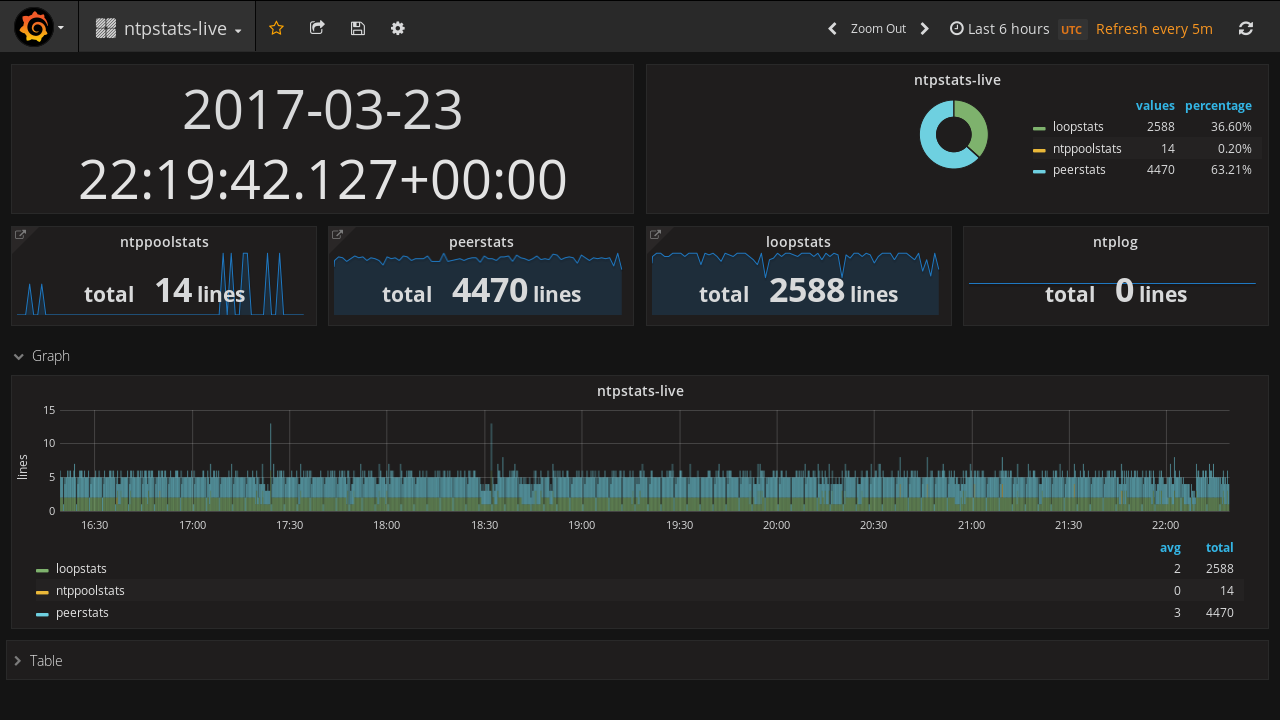
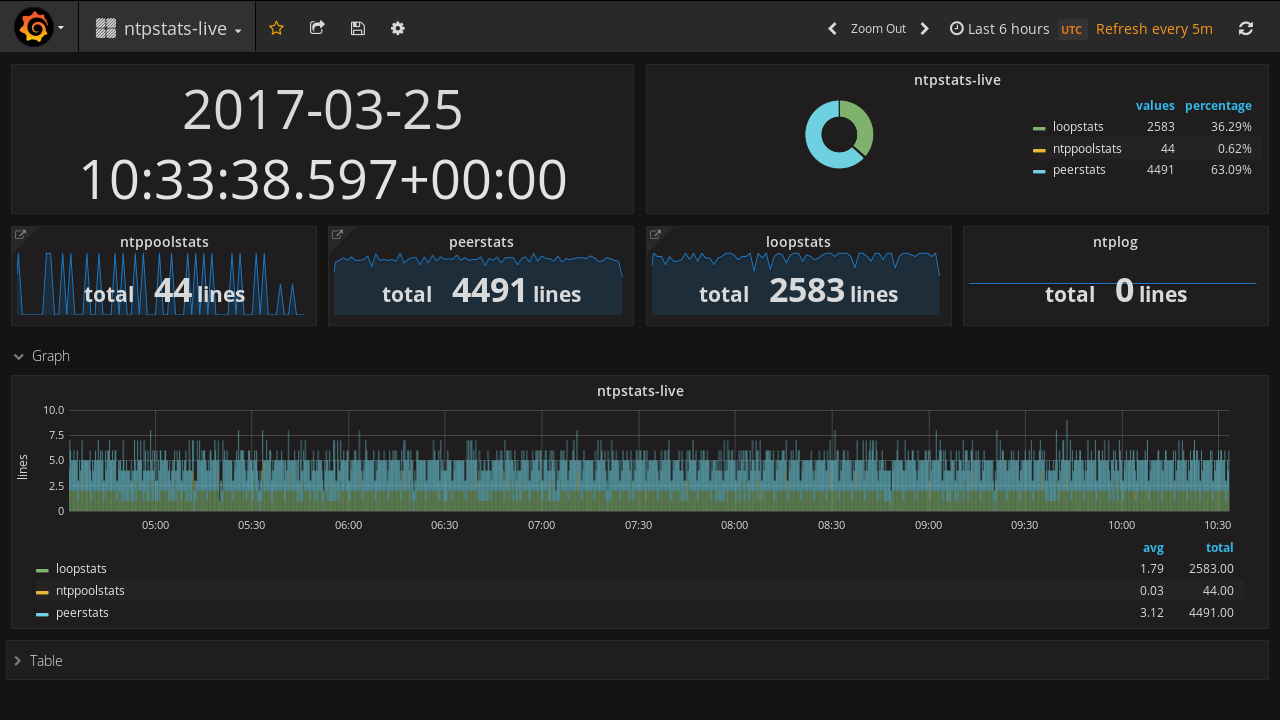
gh-pages: update all screenshots

diff --git a/index.html b/index.html
@@ -49,40 +49,40 @@ body {
               <!-- wrapper for slides -->
               <div class="carousel-inner">
                 <div class="item active">
-                  <img src="http://placehold.it/1280x720" alt="...">
+                  <img src="doc/images/screenshot_gitbook_ntpstats-ng_prev.png" alt="GitBook ntpstats-ng">
                   <div class="carousel-caption">
-                    <h3>ntpstats-ng GitBook</h3>
+                    <h3>GitBook ntpstats-ng</h3>
                   </div>
                 </div>
                 <div class="item">
                   <a href="#feature_1">
-                    <img src="doc/images/dashboard_ntpstats-ng.png" alt="...">
+                    <img src="doc/images/dashboard_ntpstats-ng_prev.png" alt="Grafana Dashboard ntpstats-ng">
                     <div class="carousel-caption">
-                      <h3>Dashboards</h3>
+                      <h3>Grafana Dashboards</h3>
                     </div>
                   </a>
                 </div>
                 <div class="item">
                   <a href="#feature_2">
-                    <img src="http://placehold.it/1280x720" alt="...">
+                    <img src="doc/images/dashboard_ntpstats-ng_statistics_prev.png" alt="Data Statistics">
                     <div class="carousel-caption">
-                      <h3>Feature 2</h3>
+                      <h3>Data Statistics</h3>
                     </div>
                   </a>
                 </div>
                 <div class="item">
                   <a href="#feature_3">
-                    <img src="http://placehold.it/1280x720" alt="...">
+                    <img src="doc/images/dashboard_ntpstats-live_prev.png" alt="Live Data">
                     <div class="carousel-caption">
-                      <h3>Feature 3</h3>
+                      <h3>Live Data</h3>
                     </div>
                   </a>
                 </div>
                 <div class="item">
                   <a href="#feature_4">
-                    <img src="http://placehold.it/1280x720" alt="...">
+                    <img src="doc/images/grafana_datasources_prev.png" alt="Data Source Elasticsearch">
                     <div class="carousel-caption">
-                      <h3>Feature 4</h3>
+                      <h3>Data Source Elasticsearch</h3>
                     </div>
                   </a>
                 </div>
@@ -106,25 +106,25 @@ body {
       <div class="row">
         <div class="col-md-3">
           <h2>ntppoolstats</h2>
-          <p><img src="http://placehold.it/253x158" alt="placeholder" class="img-thumbnail"></p>
+          <p><img src="doc/images/dashboard_ntpstats-live_ntppoolstats_prev.png" alt="ntpstats-live ntppoolstats" class="img-thumbnail"></p>
           <p>Short description...</p>
           <p><a href="#ntppoolstats" class="btn btn-default" role="button">Type ntppoolstats &raquo;</a></p>
         </div>
         <div class="col-md-3">
           <h2>peerstats</h2>
-          <p><img src="http://placehold.it/253x158" alt="placeholder" class="img-thumbnail"></p>
+          <p><img src="doc/images/dashboard_ntpstats-live_peerstats_prev.png" alt="ntpstats-live peerstats" class="img-thumbnail"></p>
           <p>Short description...</p>
           <p><a href="#peerstats" class="btn btn-default" role="button">Type peerstats &raquo;</a></p>
         </div>
         <div class="col-md-3">
           <h2>loopstats</h2>
-          <p><img src="http://placehold.it/253x158" alt="placeholder" class="img-thumbnail"></p>
+          <p><img src="doc/images/dashboard_ntpstats-live_loopstats_prev.png" alt="ntpstats-live loopstats" class="img-thumbnail"></p>
           <p>Short description...</p>
           <p><a href="#loopstats" class="btn btn-default" role="button">Type loopstats &raquo;</a></p>
         </div>
         <div class="col-md-3">
           <h2>ntplog</h2>
-          <p><img src="http://placehold.it/253x158" alt="placeholder" class="img-thumbnail"></p>
+          <p><img src="http://placehold.it/640x360" alt="placeholder" class="img-thumbnail"></p>
           <p>Short description...</p>
           <p><a href="#ntplog" class="btn btn-default" role="button">Type ntplog &raquo;</a></p>
           <p class="text-right"><a class="back-to-top glyphicon glyphicon-arrow-up" href="#top" title="Top"></a></p>
@@ -166,7 +166,11 @@ body {
       <div class="row">
         <div class="col-md-12" id="ntppoolstats">
           <h3>ntppoolstats</h3>
-          <p><img src="doc/images/dashboard_ntpstats-live_ntppoolstats.png" alt="ntpstats-live ntppoolstats" class="img-responsive"></p>
+          <p>
+            <a href="doc/images/dashboard_ntpstats-live_ntppoolstats.png">
+              <img src="doc/images/dashboard_ntpstats-live_ntppoolstats_prev.png" alt="ntpstats-live ntppoolstats" class="img-thumbnail">
+            </a>
+          </p>
           <p class="lead">Dashboard ntpstats-live ntppoolstats</p>
           <p>Lorem ipsum dolor sit amet, consetetur sadipscing elitr, sed diam nonumy eirmod tempor invidunt ut labore et dolore magna aliquyam erat, sed diam voluptua. At vero eos et accusam et justo duo dolores et ea rebum. Stet clita kasd gubergren, no sea takimata sanctus est Lorem ipsum dolor sit amet.</p>
           <p class="text-right"><a class="back-to-top glyphicon glyphicon-arrow-up" href="#top" title="Top"></a></p>
@@ -176,7 +180,9 @@ body {
       <div class="row">
         <div class="col-md-12" id="peerstats">
           <h3>peerstats</h3>
-          <p><img src="doc/images/dashboard_ntpstats-live_peerstats.png" alt="ntpstats-live peerstats" class="img-responsive"></p>
+          <p>
+              <img src="doc/images/dashboard_ntpstats-live_peerstats_prev.png" alt="ntpstats-live peerstats" class="img-thumbnail">
+          </p>
           <p class="lead">Dashboard ntpstats-live peerstats</p>
           <p>Lorem ipsum dolor sit amet, consetetur sadipscing elitr, sed diam nonumy eirmod tempor invidunt ut labore et dolore magna aliquyam erat, sed diam voluptua. At vero eos et accusam et justo duo dolores et ea rebum. Stet clita kasd gubergren, no sea takimata sanctus est Lorem ipsum dolor sit amet.</p>
           <p class="text-right"><a class="back-to-top glyphicon glyphicon-arrow-up" href="#top" title="Top"></a></p>
@@ -186,7 +192,9 @@ body {
       <div class="row">
         <div class="col-md-12" id="loopstats">
           <h3>loopstats</h3>
-          <p><img src="doc/images/dashboard_ntpstats-live_loopstats.png" alt="ntpstats-live loopstats" class="img-responsive"></p>
+          <p>
+              <img src="doc/images/dashboard_ntpstats-live_loopstats_prev.png" alt="ntpstats-live loopstats" class="img-thumbnail">
+          </p>
           <p class="lead">Dashboard ntpstats-live loopstats</p>
           <p>Lorem ipsum dolor sit amet, consetetur sadipscing elitr, sed diam nonumy eirmod tempor invidunt ut labore et dolore magna aliquyam erat, sed diam voluptua. At vero eos et accusam et justo duo dolores et ea rebum. Stet clita kasd gubergren, no sea takimata sanctus est Lorem ipsum dolor sit amet.</p>
           <p class="text-right"><a class="back-to-top glyphicon glyphicon-arrow-up" href="#top" title="Top"></a></p>
@@ -196,7 +204,9 @@ body {
       <div class="row">
         <div class="col-md-12" id="ntplog">
           <h3>ntplog</h3>
-          <p><img src="http://placehold.it/1280x720" alt="ntpstats-live ntplog" class="img-responsive"></p>
+          <p>
+              <img src="http://placehold.it/640x360" alt="ntpstats-live ntplog" class="img-thumbnail">
+          </p>
           <p class="lead">Dashboard ntpstats-live ntplog</p>
           <p>Lorem ipsum dolor sit amet, consetetur sadipscing elitr, sed diam nonumy eirmod tempor invidunt ut labore et dolore magna aliquyam erat, sed diam voluptua. At vero eos et accusam et justo duo dolores et ea rebum. Stet clita kasd gubergren, no sea takimata sanctus est Lorem ipsum dolor sit amet.</p>
           <p class="text-right"><a class="back-to-top glyphicon glyphicon-arrow-up" href="#top" title="Top"></a></p>
@@ -217,7 +227,7 @@ body {
               <a href="#feature_2" class="list-group-item">Statistics</a>
               <a href="#feature_3" class="list-group-item">Live</a>
             </div>
-            <a href="#feature_4" class="list-group-item">Feature 4</a>
+            <a href="#feature_4" class="list-group-item">Data source Elasticsearch</a>
           </div>
           <p class="text-right"><a class="back-to-top glyphicon glyphicon-arrow-up" href="#top" title="Top"></a></p>
         </div>
@@ -225,13 +235,13 @@ body {
 
       <div class="row">
         <div class="col-md-12" id="feature_1">
-          <h3>Dashboards</h3>
+          <h3>Grafana Dashboards</h3>
           <p>
             <a href="doc/images/dashboard_ntpstats-ng.png">
-              <img src="doc/images/dashboard_ntpstats-ng.png" alt="dashboard ntpstats-ng" class="img-responsive">
+              <img src="doc/images/dashboard_ntpstats-ng_prev.png" alt="dashboard ntpstats-ng" class="img-thumbnail">
             </a>
           </p>
-          <p class="lead">Dashboard ntpstats-ng</p>
+          <p class="lead">Grafana Dashboard ntpstats-ng</p>
           <p>Lorem ipsum dolor sit amet, consetetur sadipscing elitr, sed diam nonumy eirmod tempor invidunt ut labore et dolore magna aliquyam erat, sed diam voluptua. At vero eos et accusam et justo duo dolores et ea rebum. Stet clita kasd gubergren, no sea takimata sanctus est Lorem ipsum dolor sit amet.</p>
           <p class="text-right"><a class="back-to-top glyphicon glyphicon-arrow-up" href="#top" title="Top"></a></p>
         </div>
@@ -239,13 +249,13 @@ body {
 
       <div class="row">
         <div class="col-md-12" id="feature_2">
-          <h4>Statistics</h4>
+          <h4>Data Statistics</h4>
           <p>
             <a href="doc/images/dashboard_ntpstats-ng_statistics.png">
-              <img src="doc/images/dashboard_ntpstats-ng_statistics.png" alt="dashboard ntpstats-ng statistics" class="img-responsive">
+              <img src="doc/images/dashboard_ntpstats-ng_statistics_prev.png" alt="dashboard ntpstats-ng statistics" class="img-thumbnail">
             </a>
           </p>
-          <p class="lead">Dashboard ntpstats-ng statistics</p>
+          <p class="lead">Grafana Dashboard ntpstats-ng statistics</p>
           <p>Lorem ipsum dolor sit amet, consetetur sadipscing elitr, sed diam nonumy eirmod tempor invidunt ut labore et dolore magna aliquyam erat, sed diam voluptua. At vero eos et accusam et justo duo dolores et ea rebum. Stet clita kasd gubergren, no sea takimata sanctus est Lorem ipsum dolor sit amet.</p>
           <p class="text-right"><a class="back-to-top glyphicon glyphicon-arrow-up" href="#top" title="Top"></a></p>
         </div>
@@ -253,13 +263,13 @@ body {
 
       <div class="row">
         <div class="col-md-12" id="feature_3">
-          <h4>Live</h4>
+          <h4>Live Data</h4>
           <p>
             <a href="doc/images/dashboard_ntpstats-live.png">
-              <img src="doc/images/dashboard_ntpstats-live.png" alt="dashboard ntpstats-live" class="img-responsive">
+              <img src="doc/images/dashboard_ntpstats-live_prev.png" alt="dashboard ntpstats-live" class="img-thumbnail">
             </a>
           </p>
-          <p class="lead">Dashboard ntpstats-live</p>
+          <p class="lead">Grafana Dashboard ntpstats-live</p>
           <p>Lorem ipsum dolor sit amet, consetetur sadipscing elitr, sed diam nonumy eirmod tempor invidunt ut labore et dolore magna aliquyam erat, sed diam voluptua. At vero eos et accusam et justo duo dolores et ea rebum. Stet clita kasd gubergren, no sea takimata sanctus est Lorem ipsum dolor sit amet.</p>
           <p class="text-right"><a class="back-to-top glyphicon glyphicon-arrow-up" href="#top" title="Top"></a></p>
         </div>
@@ -267,7 +277,13 @@ body {
 
       <div class="row">
         <div class="col-md-12" id="feature_4">
-          <h3>Feature 4</h3>
+          <h4>Data Source Elasticsearch</h4>
+          <p>
+            <a href="doc/images/grafana_datasources.png">
+              <img src="doc/images/grafana_datasources_prev.png" alt="grafana data sources" class="img-thumbnail">
+            </a>
+          </p>
+          <p class="lead">Grafana Data Source Elasticsearch</p>
           <p>Lorem ipsum dolor sit amet, consetetur sadipscing elitr, sed diam nonumy eirmod tempor invidunt ut labore et dolore magna aliquyam erat, sed diam voluptua. At vero eos et accusam et justo duo dolores et ea rebum. Stet clita kasd gubergren, no sea takimata sanctus est Lorem ipsum dolor sit amet.</p>
           <p class="text-right"><a class="back-to-top glyphicon glyphicon-arrow-up" href="#top" title="Top"></a></p>
         </div>
